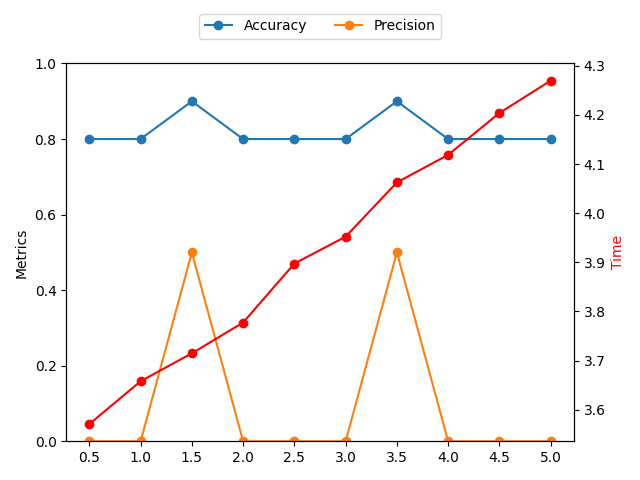
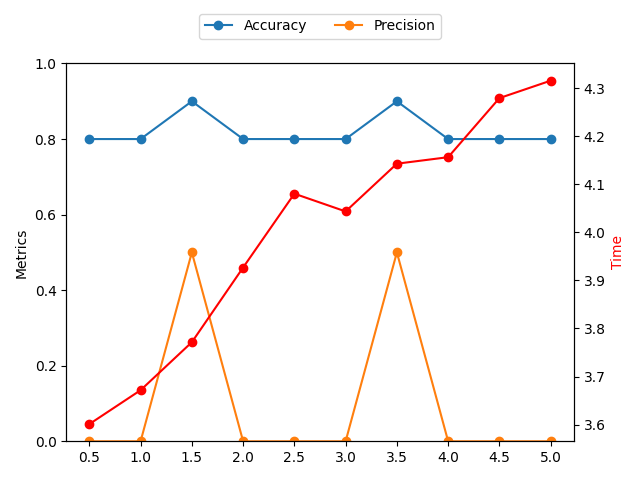
merge mess fix

diff --git a/NeuralNetwork/src/testing.py b/NeuralNetwork/src/testing.py
@@ -3,9 +3,10 @@ from data_loader import load_data
 import numpy as np
 import os
 import random
+import time
 from sklearn.metrics import confusion_matrix
 import seaborn as sns
-from playground import show_confusion_matrix
+# from playground import show_confusion_matrix
 
 import matplotlib.pyplot as plt
 
@@ -150,23 +151,39 @@ def plot(dict):
 
     confusion_matrix_list = []
     metrics_list = []
+    times_list = []
+
+    all_tests_start_time = time.time()
 
     for index in range(values_number):
-        os.system('clear')
+
+        # os.system('clear')
         print(f'Test: {index+1}/{values_number}')
+
+        start_time = time.time()
 
         confusion_matrix, metrics = test(
             dict['hidden_layers_number'][index],
-            dict['neurons_number'][index],
+            dict['neurons_in_layer_number'][index],
             dict['epochs_number'][index],
             dict['learning_rate'][index]
         )
 
+        times_list.append(time.time() - start_time)
         confusion_matrix_list.append(confusion_matrix)
         metrics_list.append(metrics)
 
     fig, ax1 = plt.subplots()
-    # ax2 = ax1.twinx()
+    ax2 = ax1.twinx()
+
+    if changing_parameter == 'hidden_layers_number':
+        ax1.set_xlabel('Hidden layers')
+    elif changing_parameter == 'neurons_in_layer_number':
+        ax1.set_xlabel('Neurons in layer')
+    elif changing_parameter == 'epochs number':
+        ax1.set_xlabel('Epochs')
+    elif changing_parameter == 'learning rate':
+        ax1.set_xlabel('Learning rate')
 
     for metric in metrics_list[0]:
         if metric in ('Accuracy', 'Precision'):
@@ -187,19 +204,18 @@ def plot(dict):
     ax2.plot(changing_parameter_values, times_list, color='red', marker='o')
     ax2.set_ylabel('Time', color='red')
     plt.xticks(changing_parameter_values, changing_parameter_values)
-    ax1.legend(['Accuracy', 'Precision'], title="Metrics")
 
     plt.tight_layout()
 
     plt.savefig(f'plots/{changing_parameter}.png')
     # plt.show()
 
-    print(f'All tests time: {round(time.time() - plotting_start_time)}s\n')
+    print(f'All tests time: {round(time.time() - all_tests_start_time)}s\n')
 
 
 if __name__ == "__main__":
-    # random.seed(0)
-    # np.random.seed(0)
+    random.seed(0)
+    np.random.seed(0)
 
     training_data = load_data(
         'data/train-images.idx3-ubyte',
@@ -216,28 +232,56 @@ if __name__ == "__main__":
     test_data_last_index = round(
         len(test_data) * DATA_PERCENTAGE/100
     )
-
     # print(training_data_last_index)
-
     training_data = training_data[:training_data_last_index]
     test_data = test_data[:test_data_last_index]
 
-    confusion_matrix, metrics = test(
-        hidden_layers_number=1,
-        neurons_in_layer_number=1,
-        epochs_number=5,
-        learning_rate=1
-    )
+    # print(training_data_last_index)
+    # print(test_data_last_index)
 
-    print(metrics)
+    # confusion_matrix, metrics = test(
+    #     hidden_layers_number=2,
+    #     neurons_in_layer_number=10,
+    #     epochs_number=10,
+    #     learning_rate=1
+    # )
 
-    quit()
-    # plot('epochs_number', list(range(5, 8)))
+    # # print(confusion_matrix)
+    # print(metrics)
+
+    # quit()
 
     plot(
         {
             'hidden_layers_number': 2,
-            'neurons_number': list(range(1, 5)),
+            'neurons_in_layer_number': list(range(5, 30, 5)),
+            'epochs_number': 10,
+            'learning_rate': 1
+        }
+    )
+
+    plot(
+        {
+            'hidden_layers_number': list(range(1, 5, 1)),
+            'neurons_in_layer_number': 10,
+            'epochs_number': 10,
+            'learning_rate': 1
+        }
+    )
+
+    plot(
+        {
+            'hidden_layers_number': 2,
+            'neurons_in_layer_number': 10,
+            'epochs_number': list(range(1, 20, 1)),
+            'learning_rate': 1
+        }
+    )
+
+    plot(
+        {
+            'hidden_layers_number': 2,
+            'neurons_in_layer_number': 10,
             'epochs_number': 10,
             'learning_rate': np.arange(0.5, 5.5, 0.5).tolist()
         }
